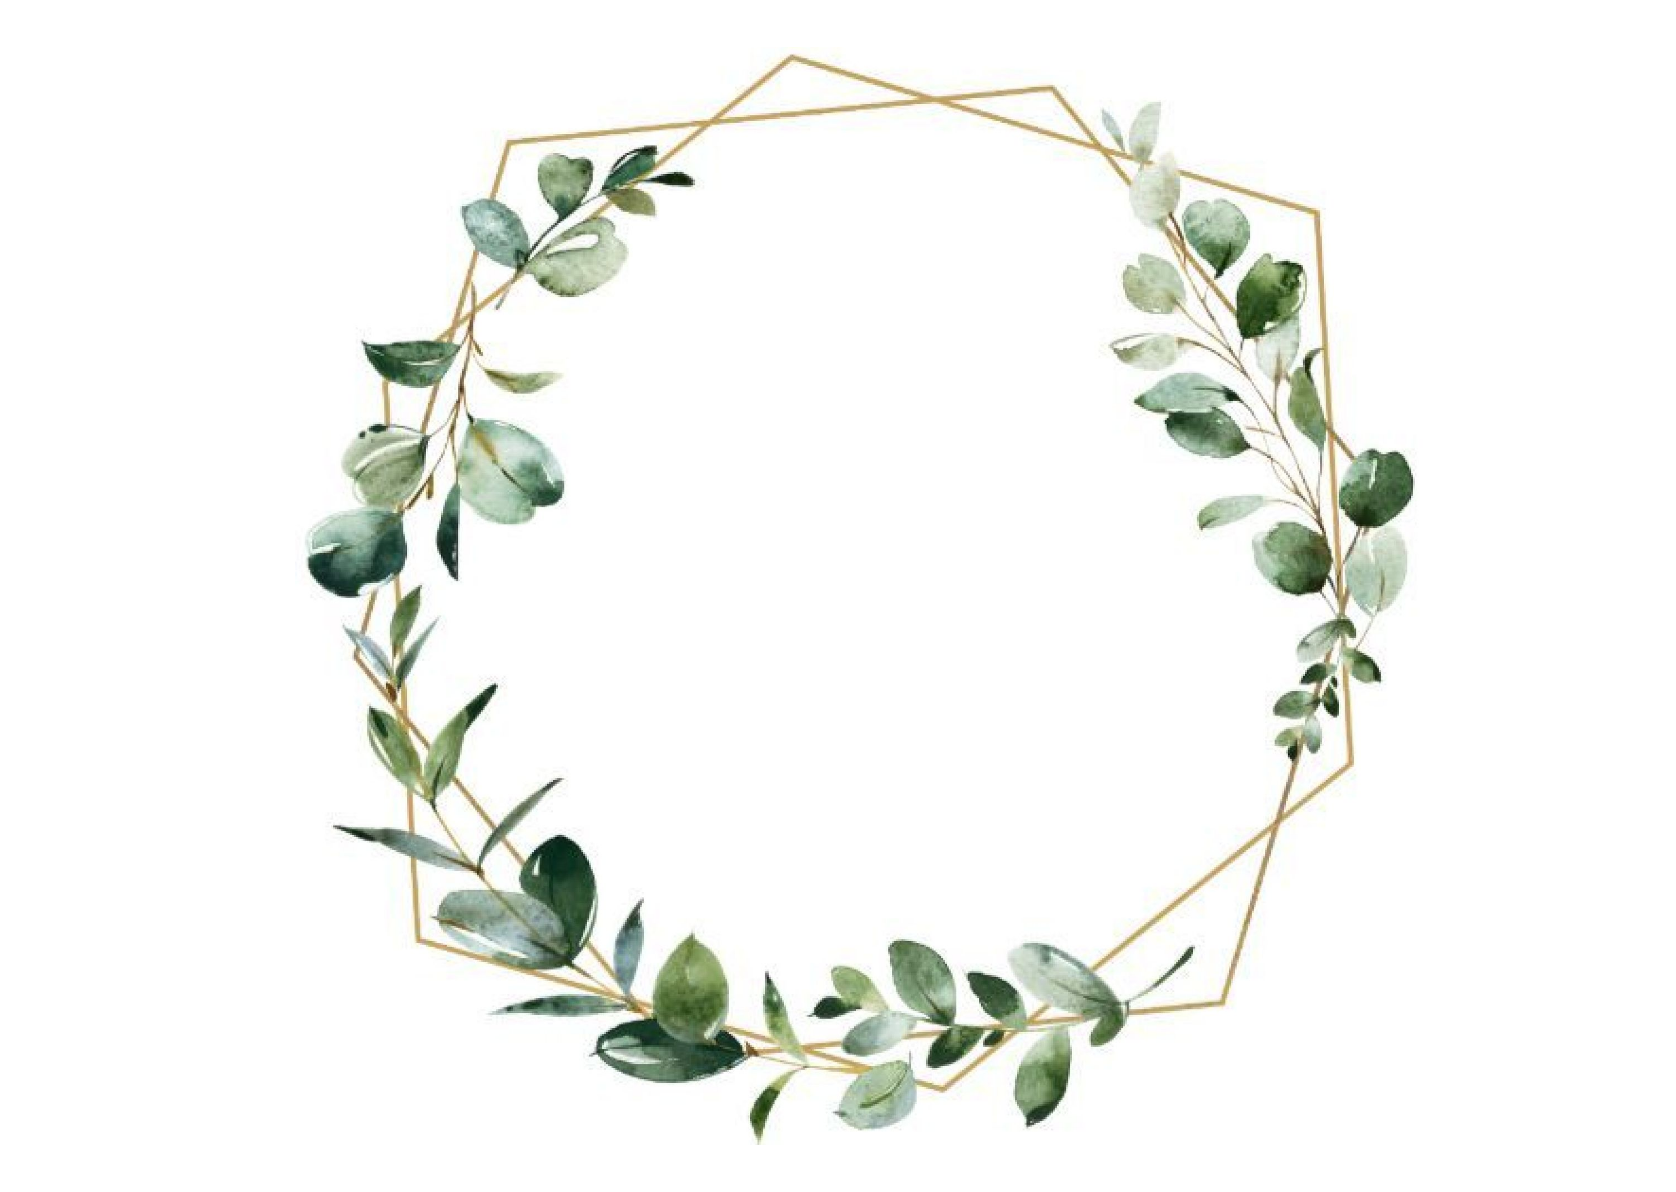
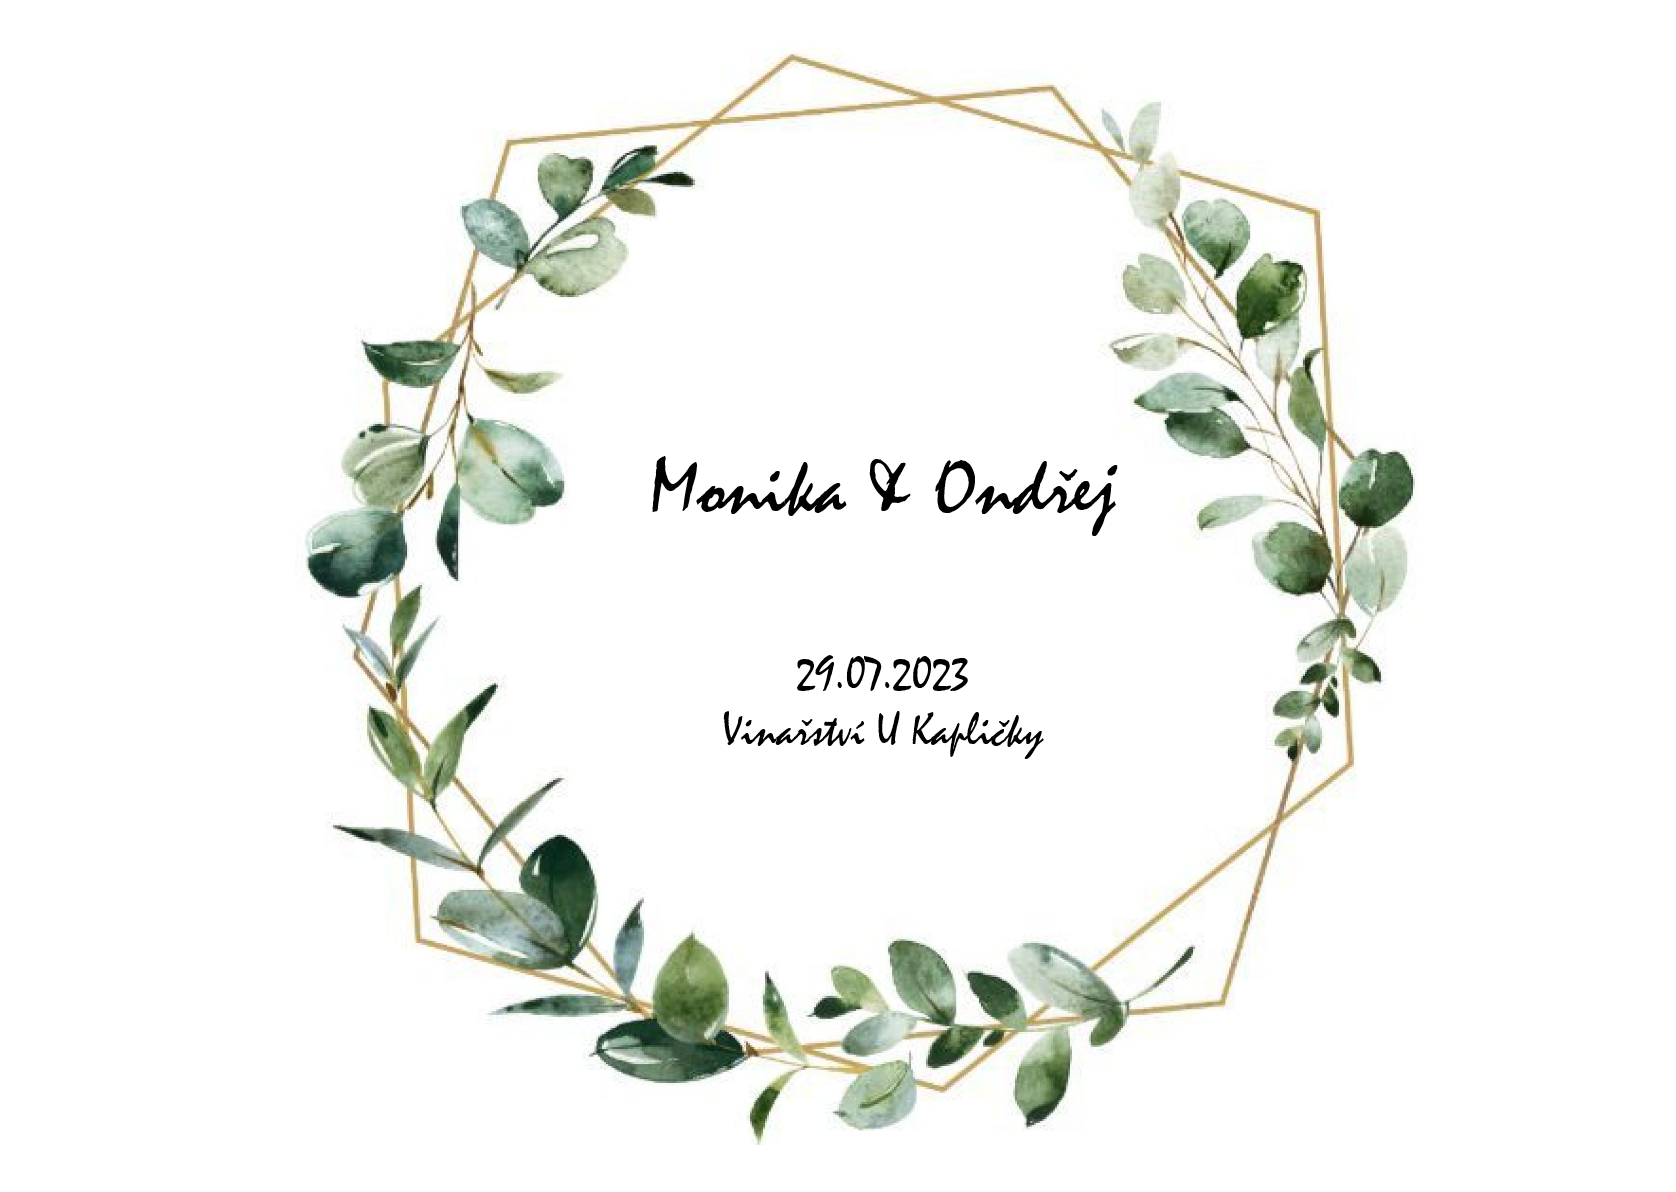
updated text
updated text

Changed region(s): [[0.3723, 0.3725, 0.6826, 0.4346], [0.4344, 0.5277, 0.6205, 0.6518]]

diff --git a/index.html b/index.html
@@ -5,17 +5,14 @@
     <meta name="viewport" content="width=device-width, initial-scale=1, shrink-to-fit=no" />
     <meta name="description" content="" />
     <meta name="author" content="" />
-    <title>Grayscale - Start Bootstrap Theme</title>
+    <title>Monika & Ondrej</title>
     <link rel="icon" type="image/x-icon" href="assets/favicon.ico" />
     <!-- Font Awesome icons (free version)-->
     <script src="https://use.fontawesome.com/releases/v6.1.0/js/all.js" crossorigin="anonymous"></script>
     <!-- Google fonts-->
     <link rel="preconnect" href="https://fonts.googleapis.com">
     <link rel="preconnect" href="https://fonts.gstatic.com" crossorigin>
-    <link href="https://fonts.googleapis.com/css2?family=Homemade+Apple&display=swap" rel="stylesheet">
-    <link rel="preconnect" href="https://fonts.googleapis.com">
-    <link rel="preconnect" href="https://fonts.gstatic.com" crossorigin>
-    <link href="https://fonts.googleapis.com/css2?family=Dancing+Script&display=swap" rel="stylesheet">
+    <link href="https://fonts.googleapis.com/css2?family=Shalimar&display=swap" rel="stylesheet">
     <link href="https://fonts.googleapis.com/css?family=Varela+Round" rel="stylesheet" />
     <link href="https://fonts.googleapis.com/css?family=Nunito:200,200i,300,300i,400,400i,600,600i,700,700i,800,800i,900,900i" rel="stylesheet" />
     <!-- Core theme CSS (includes Bootstrap)-->
@@ -45,14 +42,12 @@
         <div class="d-flex justify-content-center">
             <div class="text-center">
                 <h1 class="mx-auto my-0 cursive">Monika</h1> <h1 class="mx-auto my-0 text-uppercase">&</h1>
-                <h1 class="mx-auto my-0">Ondrej</h1>
+                <h1 class="mx-auto my-0">Ondřej</h1>
                 <h2 class="text-white-50 mx-auto mt-2 mb-5"></h2>
-                <h2 class="text-white-50 mx-auto mt-2 mb-5">Vas srdecne zvou na svatbu</h2>
+                <h2 class="text-white-50 mx-auto mt-2 mb-5"></h2>
+                <h2 class="text-white-50 mx-auto mt-2 mb-5">Budeme se brát!</h2>
                 <p class="text-white-50">
-                    Oslavte to s nami:
-                </p>
-                <p class="text-white-50">
-                    Kdy: 29.07.2023 <br> Kde: Vinarstvi u Kaplicky
+                    Kdy: 29.07.2023 <br> Kde: Vinařství u Kapličky
 
                 </p>
             </div>
@@ -73,21 +68,21 @@
                     <h4>PROGRAM</h4>
                     <br>
 
-                    <p class="text-black-50 mb-0">13:00 Obrad <br>
+                    <p class="text-black-50 mb-0">13:00 Obřad <br>
                         <br>
-                        13:30 Spolecne foceni <br>
+                        13:30 Společné focení <br>
                         <br>
-                        14:30 Obed <br>
+                        14:30 Oběd <br>
                         <br>
-                        15:30 Krajeni dortu <br>
+                        15:30 Krájení dortu <br>
                         <br>
-                        16:00 Ochutnavka vin ve sklipku <br>
+                        16:00 Ochutnávka vín ve sklipku <br>
                         <br>
                         18:00 Raut <br>
                         <br>
-                        19:00 Prvni tace<br>
+                        19:00 První tanec<br>
                         <br>
-                        19:30 Party <br>
+                        19:30 Párty <br>
                         <br>
                         21:00 Raut <br>
                     </p>
@@ -101,8 +96,8 @@
                 <div class="bg-black text-center h-100 project">
                     <div class="d-flex h-100">
                         <div class="project-text w-100 my-auto text-center text-lg-left">
-                            <h4 class="text-white">Ubytovani</h4>
-                            <p class="mb-0 text-white-50">An example of where you can put an image of a project, or anything else, along with a description.</p>
+                            <h4 class="text-white">Ubytování</h4>
+                            <p class="mb-0 text-white-50">Ubytování je k dispoyici přímo v areálu Vinařství.Stačí, když nám vyplníte formulář a my vám ubytování razervujeme. Zaplatit pak stačí na místě.<br>My budeme určitě zůstávat celý víkend (možná i déle) a budeme rádi když se k nám přidáte. </p>
                             <hr class="d-none d-lg-block mb-0 ms-0" />
                         </div>
                     </div>
@@ -117,7 +112,7 @@
                     <div class="d-flex h-100">
                         <div class="project-text w-100 my-auto text-center text-lg-right">
                             <h4 class="text-white">Doprava</h4>
-                            <p class="mb-0 text-white-50">Another example of a project with its respective description. !</p>
+                            <p class="mb-0 text-white-50">Pro ty, co pojedou autem, parkování v areálu je zdarma. V případě, že nebudete zůstávat přes noc a nemáte možnost dopravy zpět, plánujeme zajistit rozvoz minubusem. Kapacita je velmi omezená a časy budou pevně dány(ještě upřesníme). Kdo by měl zájem, dejte nám prosím co nejdříve vědět ve formuláři. </p>
                             <hr class="d-none d-lg-block mb-0 me-0" />
                         </div>
                     </div>

diff --git a/css/styles.css b/css/styles.css
@@ -57,8 +57,8 @@
   --bs-black-rgb: 0, 0, 0;
   --bs-body-color-rgb: 33, 37, 41;
   --bs-body-bg-rgb: 255, 255, 255;
-  --bs-font-sans-serif:"Homemade Apple", cursive, Dancing Script, cursive, system-ui, -apple-system, "Segoe UI", Roboto, "Helvetica Neue", Arial, "Noto Sans", "Liberation Sans", sans-serif, "Apple Color Emoji", "Segoe UI Emoji", "Segoe UI Symbol", "Noto Color Emoji";
-  --bs-font-monospace: "Homemade Apple", cursive, Dancing Script, cursive, SFMono-Regular, Menlo, Monaco, Consolas, "Liberation Mono", "Courier New", monospace;
+  --bs-font-sans-serif:"Shalimar", cursive, Dancing Script, cursive, system-ui, -apple-system, "Segoe UI", Roboto, "Helvetica Neue", Arial, "Noto Sans", "Liberation Sans", sans-serif, "Apple Color Emoji", "Segoe UI Emoji", "Segoe UI Symbol", "Noto Color Emoji";
+  --bs-font-monospace: "Shalimar", cursive, Dancing Script, cursive, SFMono-Regular, Menlo, Monaco, Consolas, "Liberation Mono", "Courier New", monospace;
   --bs-gradient: linear-gradient(180deg, rgba(255, 255, 255, 0.15), rgba(255, 255, 255, 0));
   --bs-body-font-family:Nunito, -apple-system, BlinkMacSystemFont, Segoe UI, Roboto, Helvetica Neue, Arial, sans-serif, Apple Color Emoji, Segoe UI Emoji, Segoe UI Symbol, Noto Color Emoji, Ariel Script;
   --bs-body-font-size: 1rem;
@@ -11566,7 +11566,7 @@ body {
   background-size: cover;
 }
 .masthead h1, .masthead .h1 {
-  font-family: "Homemade Apple", cursive,"Dancing Script", -apple-system, BlinkMacSystemFont, "Segoe UI", Roboto, "Helvetica Neue", Arial, sans-serif, "Apple Color Emoji", "Segoe UI Emoji", "Segoe UI Symbol", "Noto Color Emoji";
+  font-family: "Shalimar", cursive,"Dancing Script", -apple-system, BlinkMacSystemFont, "Segoe UI", Roboto, "Helvetica Neue", Arial, sans-serif, "Apple Color Emoji", "Segoe UI Emoji", "Segoe UI Symbol", "Noto Color Emoji";
   font-size: 2.rem;
   line-height: 4.5rem;
   letter-spacing: 0rem;
@@ -11653,11 +11653,11 @@ body {
   text-transform: uppercase;
   letter-spacing: 0.15rem;
   border: 0;
-}
+}f
 
-.contact-section {
-  padding-top: 5rem;
-}
+ .contact-section {
+   padding-top: 5rem;
+ }
 .contact-section .card {
   border: 0;
   border-bottom: 0.25rem solid #64a19d;
